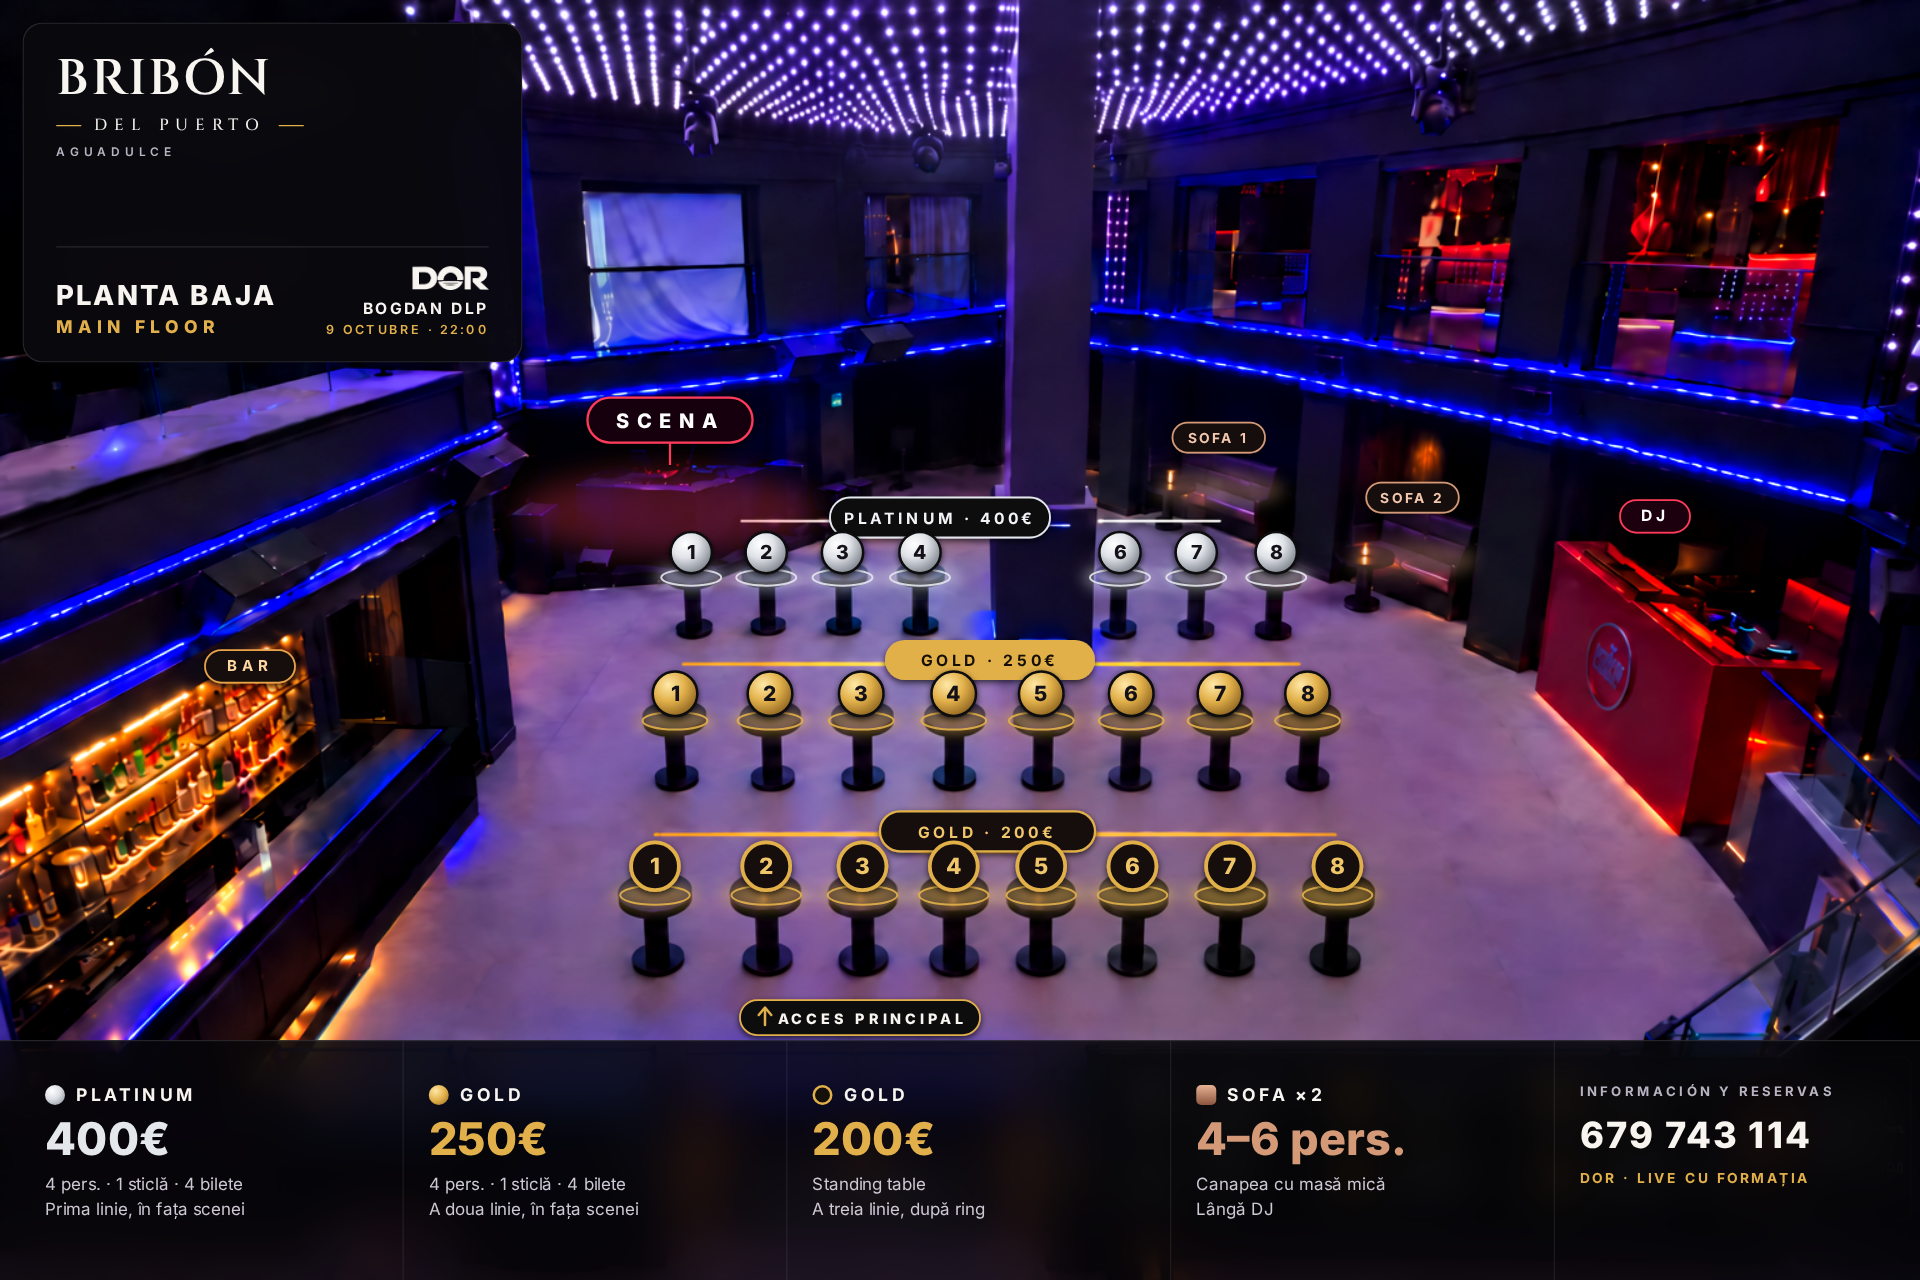
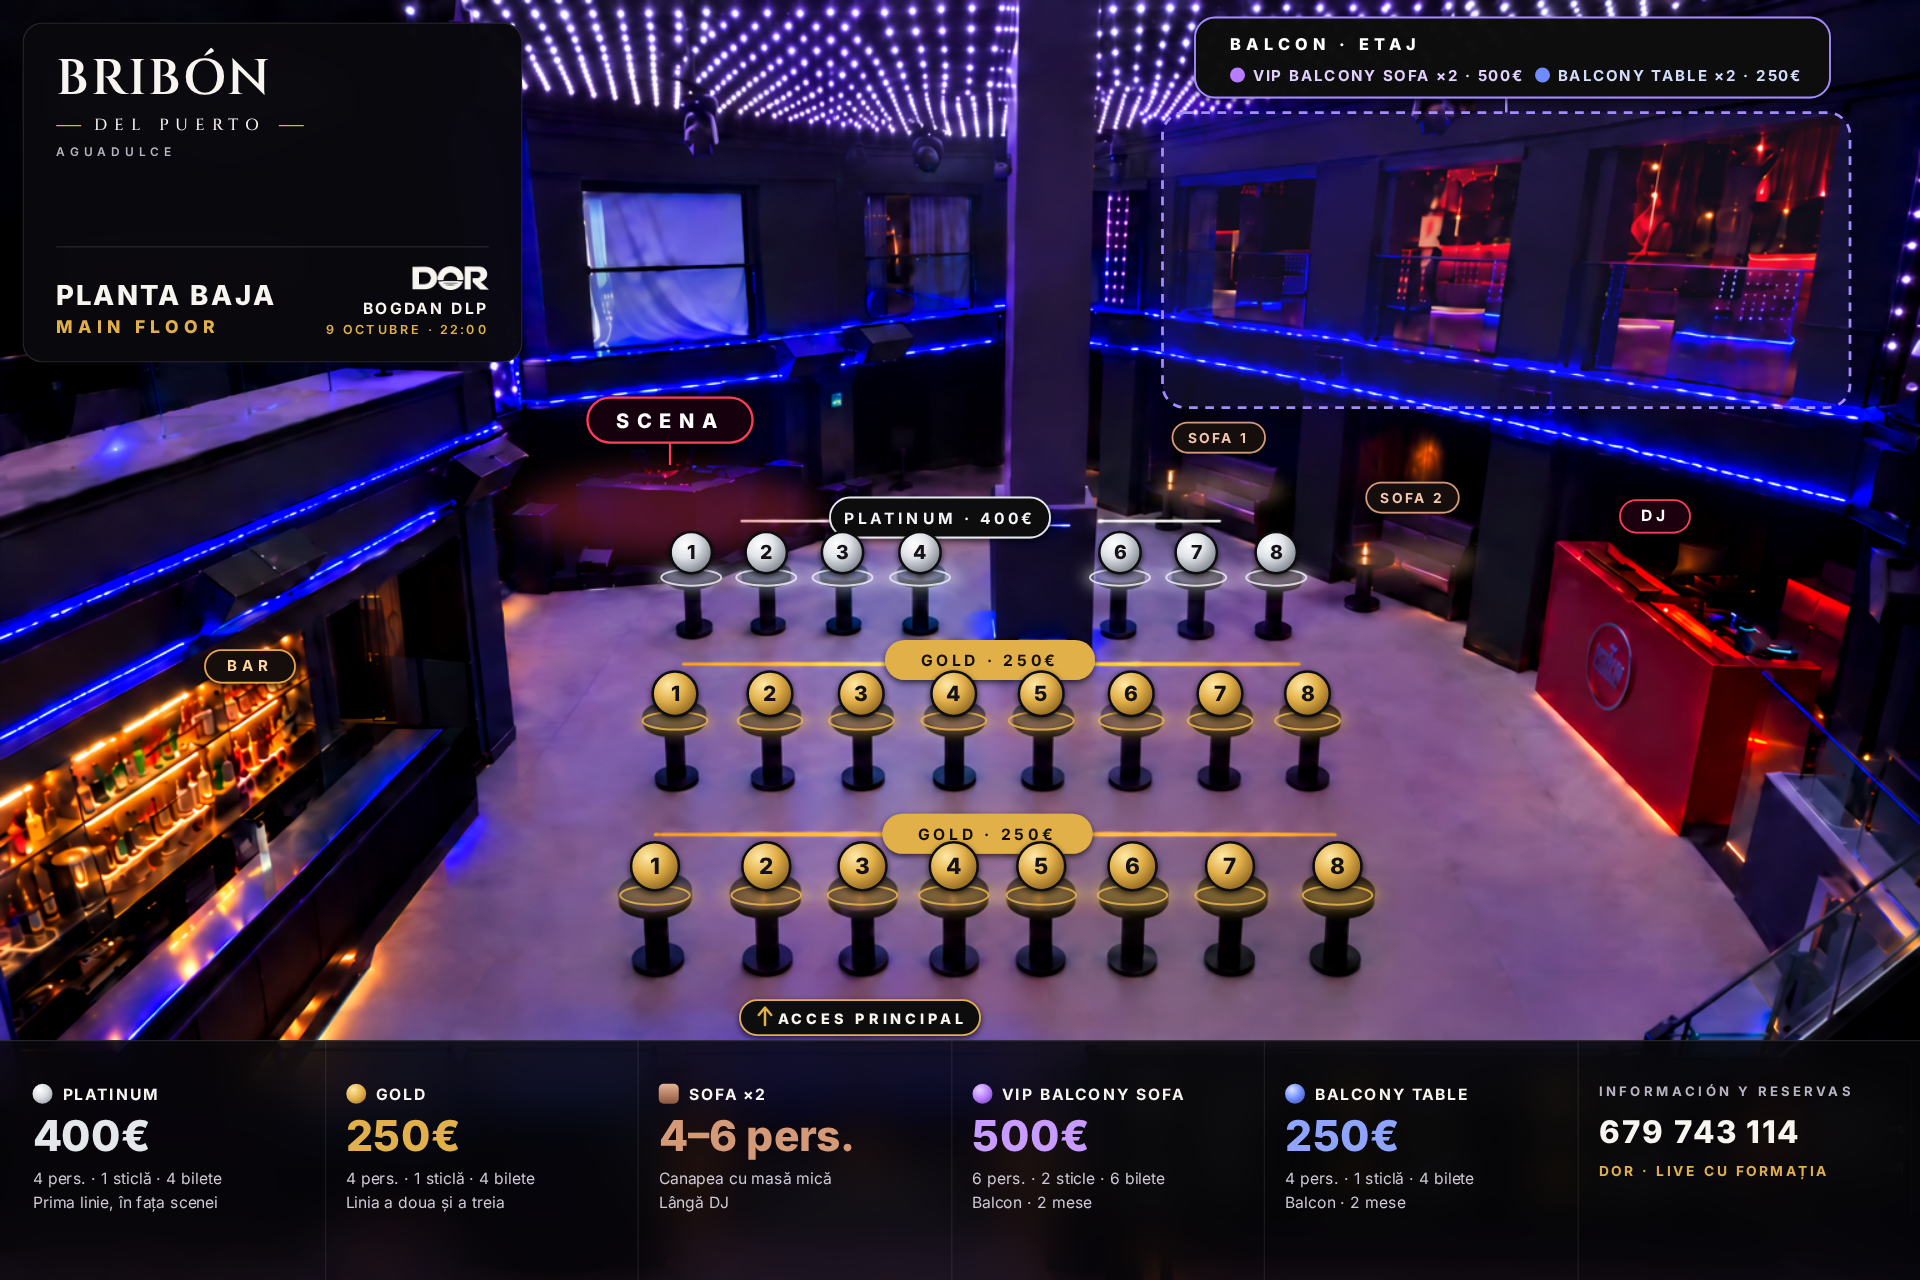
Toate mesele Gold la 250€; balconul marcat pe foto (VIP Balcony Sofa ×2, Balcony Table ×2)
Claude-Session: https://claude.ai/code/session_01CQvvotQmQH2aqorEYVjyXo

diff --git a/harta_mese/harta_foto.html b/harta_mese/harta_foto.html
@@ -36,20 +36,23 @@
 
   /* bandă legendă în poză (varianta landscape) */
   .lg{left:0;right:0;bottom:0;height:192px;border-radius:0;border-width:1px 0 0;
-    display:grid;grid-template-columns:repeat(4,1fr) .9fr;padding:0 16px;background:rgba(6,6,10,.84)}
-  .lg > div{padding:34px 20px 0;border-right:1px solid rgba(255,255,255,.08)}
+    display:grid;grid-template-columns:repeat(5,1fr) 1.05fr;padding:0 10px;background:rgba(6,6,10,.84)}
+  .lg > div{padding:34px 16px 0;border-right:1px solid rgba(255,255,255,.08)}
   .lg > div:last-child{border-right:0}
-  .lg .k{display:flex;align-items:center;gap:9px;font-weight:700;font-size:14px;letter-spacing:.2em}
+  .lg .k{display:flex;align-items:center;gap:8px;font-weight:700;font-size:12.5px;letter-spacing:.12em;white-space:nowrap}
   .lg .sw{width:16px;height:16px;border-radius:50%;flex:none}
-  .lg .p{font-weight:800;font-size:36px;margin-top:9px;line-height:1}
-  .lg .s{font-size:13.5px;color:#cdc8d4;margin-top:8px;line-height:1.5}
+  .lg .p{font-weight:800;font-size:34px;margin-top:9px;line-height:1}
+  .lg .s{font-size:12.5px;color:#cdc8d4;margin-top:8px;line-height:1.5}
   .lg .rz{display:flex;flex-direction:column;justify-content:flex-start}
   .lg .rz span{font-size:10.5px;letter-spacing:.26em;color:var(--mute);font-weight:700}
-  .lg .rz b{font-size:29px;font-weight:800;letter-spacing:.06em;margin-top:10px}
+  .lg .rz b{font-size:25px;font-weight:800;letter-spacing:.06em;margin-top:10px}
   .lg .rz i{font-style:normal;font-size:11px;letter-spacing:.2em;color:var(--gold);margin-top:10px;font-weight:700}
   .sw.plat{background:radial-gradient(circle at 35% 30%,#fff,#d9dce2 45%,#80858f)}
   .sw.gold{background:radial-gradient(circle at 35% 30%,#ffe7a6,#e2b04a 50%,#8e6420)}
   .sw.bronze{background:radial-gradient(circle at 35% 30%,#f3c297,#c9803f 50%,#6d3d16)}
+  .sw.vip{background:radial-gradient(circle at 35% 30%,#e6d2ff,#b77cff 50%,#5e3596)}
+  .sw.bal{background:radial-gradient(circle at 35% 30%,#d7e0ff,#6f8cff 50%,#2e3f99)}
+  .c-vip{color:#c79bff} .c-bal{color:#8ea4ff}
   .sw.gold2{background:#15110a;border:2.5px solid #e2b04a}
   .sw.sofa{border-radius:4px;background:linear-gradient(180deg,#e7b394,#8a553d)}
   .c-plat{color:var(--plat)} .c-gold{color:var(--gold)} .c-bronze{color:var(--bronze)} .c-sofa{color:var(--sofa)}
@@ -79,7 +82,10 @@
   .pt div{font-weight:600;font-size:12px;letter-spacing:.3em;color:var(--mute);text-align:right;line-height:1.7}
   .pt div b{color:var(--ink)}
   .frame{position:relative;width:1080px;height:626px;overflow:hidden}
-  .pl{display:grid;grid-template-columns:repeat(4,1fr);gap:10px;margin:24px 48px 0}
+  .pl{display:grid;grid-template-columns:repeat(3,1fr);gap:10px;margin:22px 48px 0}
+  .pl .pz{display:flex;flex-direction:column;justify-content:center;border-color:rgba(226,176,74,.4)}
+  .pl .pz span{font-size:10.5px;letter-spacing:.24em;color:var(--mute);font-weight:700}
+  .pl .pz b{font-size:27px;font-weight:800;letter-spacing:.06em;margin-top:10px}
   .story .pl{grid-template-columns:repeat(2,1fr);gap:12px}
   .pl > div{border:1px solid #2a2833;border-radius:14px;padding:15px 15px 14px;background:linear-gradient(180deg,rgba(255,255,255,.04),rgba(255,255,255,.01))}
   .pl .k{display:flex;align-items:center;gap:9px;font-weight:700;font-size:12.5px;letter-spacing:.18em}
@@ -89,9 +95,9 @@
   .pf{margin:20px 48px 0;display:flex;justify-content:space-between;align-items:center;font-size:12px;letter-spacing:.2em;color:var(--mute);font-weight:600}
   .pf b{color:var(--ink);font-size:20px;letter-spacing:.1em;font-weight:800;margin-left:12px}
 
-  .story .frame{height:758px}
-  .story #vstage{transform:translateX(-95px) scale(.86) !important}
-  .vert.story .vp{left:18px;width:420px;padding-left:120px}
+  .story .frame{height:652px}
+  .story #vstage{transform:translateX(-40px) scale(.74) !important}
+  .vert.story .vp{left:18px;width:360px;padding-left:60px}
   .story .pl .p{font-size:38px} .story .pl .s{font-size:15px} .story .pl .k{font-size:15px}
   .story .pl > div{padding:22px 22px 20px}
   .vp,.vb{display:none}
@@ -100,8 +106,8 @@
     background:linear-gradient(180deg,rgba(7,7,11,.0),#07070b 8%)}
   .vp h2{font-weight:800;font-size:30px;letter-spacing:.06em;line-height:1.1}
   .vp h2 span{display:block;color:var(--gold);font-size:17px;letter-spacing:.3em;margin-top:6px}
-  .vp ul{list-style:none;margin-top:22px;padding-top:18px;border-top:1px solid rgba(255,255,255,.14);display:grid;gap:11px}
-  .vp li{display:flex;align-items:center;gap:12px;font-weight:700;font-size:17px;letter-spacing:.14em}
+  .vp ul{list-style:none;margin-top:16px;padding-top:14px;border-top:1px solid rgba(255,255,255,.14);display:grid;gap:8px}
+  .vp li{display:flex;align-items:center;gap:12px;font-weight:700;font-size:15px;letter-spacing:.14em}
   .vp .sw{width:18px;height:18px;border-radius:50%}
   .vert .page{justify-content:center}
   .vert .pl .p{font-size:33px} .vert .pl .s{font-size:13.5px} .vert .pl .k{font-size:13.5px}
@@ -128,6 +134,19 @@
     </defs>
 
 
+
+    <!-- BALCON (etaj, dreapta sus): VIP Balcony Sofa ×2 + Balcony Standing Table ×2 -->
+    <g>
+      <rect x="930" y="90" width="550" height="236" rx="18" fill="#8f7bff" opacity=".10"/>
+      <rect x="930" y="90" width="550" height="236" rx="18" fill="none" stroke="#a48cff" stroke-width="2.2" stroke-dasharray="7 6"/>
+      <line x1="1205" y1="78" x2="1205" y2="90" stroke="#a48cff" stroke-width="2"/>
+      <rect x="956" y="14" width="508" height="64" rx="16" fill="#0a0912" fill-opacity=".96" stroke="#a48cff" stroke-width="1.5" filter="url(#shadow)"/>
+      <text x="984" y="40" fill="#fff" font-weight="800" font-size="13" letter-spacing="4">BALCON · ETAJ</text>
+      <circle cx="990" cy="60" r="6" fill="#b77cff"/>
+      <text x="1002" y="64.5" fill="#e3d0ff" font-weight="700" font-size="12" letter-spacing="1.5">VIP BALCONY SOFA ×2 · 500€</text>
+      <circle cx="1234" cy="60" r="6" fill="#6f8cff"/>
+      <text x="1246" y="64.5" fill="#d3dcff" font-weight="700" font-size="12" letter-spacing="1.5">BALCONY TABLE ×2 · 250€</text>
+    </g>
     <!-- SCENA: platforma cu echipament din spate-stânga -->
     <g>
       <ellipse cx="535" cy="410" rx="120" ry="34" fill="#ff3b5c" opacity=".30" filter="url(#blur12)"/>
@@ -147,8 +166,8 @@
       <text x="792" y="533" fill="#150f04">GOLD · 250€</text>
 
       <line x1="514" y1="667" x2="1080" y2="667" stroke="url(#lGold)" stroke-width="3"/>
-      <rect x="704" y="649" width="172" height="32" rx="16" fill="#15110a" stroke="#e2b04a" stroke-width="1.8" filter="url(#shadow)"/>
-      <text x="790" y="670" fill="#f0c66a">GOLD · 200€</text>
+      <rect x="706" y="651" width="168" height="32" rx="16" fill="#e2b04a" filter="url(#shadow)"/>
+      <text x="790" y="672" fill="#150f04">GOLD · 250€</text>
     </g>
 
     <g id="marks" font-weight="800" text-anchor="middle"></g>
@@ -193,11 +212,13 @@
     <div><div class="k"><span class="sw plat"></span>PLATINUM</div><div class="p c-plat">400€</div>
       <div class="s">4 pers. · 1 sticlă · 4 bilete<br>Prima linie, în fața scenei</div></div>
     <div><div class="k"><span class="sw gold"></span>GOLD</div><div class="p c-gold">250€</div>
-      <div class="s">4 pers. · 1 sticlă · 4 bilete<br>A doua linie, în fața scenei</div></div>
-    <div><div class="k"><span class="sw gold2"></span>GOLD</div><div class="p c-gold">200€</div>
-      <div class="s">Standing table<br>A treia linie, după ring</div></div>
+      <div class="s">4 pers. · 1 sticlă · 4 bilete<br>Linia a doua și a treia</div></div>
     <div><div class="k"><span class="sw sofa"></span>SOFA ×2</div><div class="p c-sofa">4–6 pers.</div>
       <div class="s">Canapea cu masă mică<br>Lângă DJ</div></div>
+    <div><div class="k"><span class="sw vip"></span>VIP BALCONY SOFA</div><div class="p c-vip">500€</div>
+      <div class="s">6 pers. · 2 sticle · 6 bilete<br>Balcon · 2 mese</div></div>
+    <div><div class="k"><span class="sw bal"></span>BALCONY TABLE</div><div class="p c-bal">250€</div>
+      <div class="s">4 pers. · 1 sticlă · 4 bilete<br>Balcon · 2 mese</div></div>
     <div class="rz"><span>INFORMACIÓN Y RESERVAS</span><b>679 743 114</b><i>DOR · LIVE CU FORMAȚIA</i></div>
   </div>
 </div>
@@ -212,20 +233,23 @@
   <div class="frame"><div class="stage" id="vstage" style="transform:scale(.703125)">
     <div class="vb"></div>
     <div class="glass vp"><h2>PLANTA BAJA<span>MAIN FLOOR</span></h2>
-      <ul><li><span class="sw plat"></span>PLATINUM</li><li><span class="sw gold"></span>GOLD 250€</li>
-          <li><span class="sw gold2"></span>GOLD 200€</li><li><span class="sw sofa"></span>SOFA</li></ul></div>
+      <ul><li><span class="sw plat"></span>PLATINUM</li><li><span class="sw gold"></span>GOLD</li>
+          <li><span class="sw sofa"></span>SOFA</li><li><span class="sw vip"></span>VIP BALCONY</li><li><span class="sw bal"></span>BALCONY</li></ul></div>
   </div></div>
   <div class="pl">
     <div><div class="k"><span class="sw plat"></span>PLATINUM</div><div class="p c-plat">400€</div>
       <div class="s">4 pers. · 1 sticlă · 4 bilete<br>Prima linie, în fața scenei</div></div>
     <div><div class="k"><span class="sw gold"></span>GOLD</div><div class="p c-gold">250€</div>
-      <div class="s">4 pers. · 1 sticlă · 4 bilete<br>A doua linie, în fața scenei</div></div>
-    <div><div class="k"><span class="sw gold2"></span>GOLD</div><div class="p c-gold">200€</div>
-      <div class="s">Standing table<br>A treia linie, după ring</div></div>
+      <div class="s">4 pers. · 1 sticlă · 4 bilete<br>Linia a doua și a treia</div></div>
     <div><div class="k"><span class="sw sofa"></span>SOFA ×2</div><div class="p c-sofa">4–6 pers.</div>
       <div class="s">Canapea cu masă mică<br>Lângă DJ</div></div>
+    <div><div class="k"><span class="sw vip"></span>VIP BALCONY SOFA</div><div class="p c-vip">500€</div>
+      <div class="s">6 pers. · 2 sticle · 6 bilete<br>Balcon · 2 mese</div></div>
+    <div><div class="k"><span class="sw bal"></span>BALCONY TABLE</div><div class="p c-bal">250€</div>
+      <div class="s">4 pers. · 1 sticlă · 4 bilete<br>Balcon · 2 mese</div></div>
+    <div class="pz"><span>INFORMACIÓN Y RESERVAS</span><b>679 743 114</b></div>
   </div>
-  <div class="pf"><span>INFORMACIÓN Y RESERVAS<b>679 743 114</b></span><span>DOR · LIVE CU FORMAȚIA</span></div>
+  <div class="pf"><span>DOR · LIVE CU FORMAȚIA</span><span>BOGDAN DLP · 9 OCTUBRE</span></div>
 </div>
 
 <script>
@@ -238,7 +262,7 @@
   const rows = [
     { kind: 'plat',  y: 442, xs: [553, 613, 674, 736, null, 896, 957, 1021] },
     { kind: 'gold',  y: 555, xs: [540, 616, 689, 763, 833, 905, 976, 1046] },
-    { kind: 'gold2', y: 693, xs: [524, 613, 690, 763, 833, 906, 984, 1070] },
+    { kind: 'gold',  y: 693, xs: [524, 613, 690, 763, 833, 906, 984, 1070] },
   ];
   const NS = 'http://www.w3.org/2000/svg';
   const el = (n, a) => { const e = document.createElementNS(NS, n); for (const k in a) e.setAttribute(k, a[k]); return e; };

diff --git a/harta_mese/harta.html b/harta_mese/harta.html
@@ -45,7 +45,7 @@
   .plan{flex:1;display:flex;align-items:center;justify-content:center;min-height:0}
   .plan svg{width:100%;height:auto;display:block}
 
-  .legend{display:grid;grid-template-columns:repeat(4,1fr);gap:12px}
+  .legend{display:grid;grid-template-columns:repeat(3,1fr);gap:12px}
   .card{border:1px solid var(--line);border-radius:14px;padding:16px 16px 15px;background:linear-gradient(180deg,rgba(255,255,255,.035),rgba(255,255,255,.01))}
   .card .k{display:flex;align-items:center;gap:10px}
   .card .sw{width:22px;height:22px;border-radius:50%;flex:none}
@@ -65,7 +65,7 @@
   footer b{color:var(--ink);font-size:20px;letter-spacing:.1em;font-weight:800;margin-left:12px}
 
   .story .title{margin-top:56px}
-  .story .legend{grid-template-columns:repeat(2,1fr);gap:14px}
+  .story .legend{grid-template-columns:1fr;gap:14px}
   .story .card{padding:20px 20px 18px}
   .story footer{margin-top:28px}
 
@@ -101,7 +101,7 @@
   .pk .price{font-weight:800;font-size:46px;margin-top:12px}
   .pk .row{display:flex;gap:8px;margin-top:16px;flex-wrap:wrap}
   .pk .row span{font-size:13px;font-weight:700;letter-spacing:.06em;padding:7px 12px;border-radius:99px;border:1px solid}
-  .pk .d{font-size:14.5px;color:#c9c5cf;margin-top:14px;line-height:1.5}
+  .pk .d{font-size:14.5px;color:#c9c5cf;margin-top:14px;line-height:1.5} .pk .d b{color:#fff}
   .pk.vip{border-color:rgba(183,124,255,.5);background:radial-gradient(420px 220px at 100% 0%,rgba(183,124,255,.16),transparent 70%),#0d0b12}
   .pk.vip .tag,.pk.vip .price{color:var(--vip-sofa)} .pk.vip .row span{border-color:rgba(183,124,255,.45);color:#e3d0ff}
   .pk.bal{border-color:rgba(111,140,255,.5);background:radial-gradient(420px 220px at 100% 0%,rgba(111,140,255,.16),transparent 70%),#0b0c13}
@@ -253,8 +253,8 @@
 
     <line x1="250" y1="552" x2="470" y2="552" stroke="#d8a843" stroke-width="1" opacity=".35"/>
     <line x1="650" y1="552" x2="870" y2="552" stroke="#d8a843" stroke-width="1" opacity=".35"/>
-    <rect x="474" y="538" width="172" height="28" rx="14" fill="#0b0b10" stroke="#d8a843" stroke-width="1.4"/>
-    <text x="560" y="557" fill="#e9c270">GOLD · 200€</text>
+    <rect x="474" y="538" width="172" height="28" rx="14" fill="#d8a843"/>
+    <text x="560" y="557" fill="#140f05">GOLD · 250€</text>
   </g>
 
   <g id="tables" font-weight="800" font-size="17" text-anchor="middle"></g>
@@ -265,8 +265,7 @@
     <div class="card plat"><div class="k"><div class="sw plat"></div><div class="cat">PLATINUM</div></div>
       <div class="p">400€</div><div class="s">4 pers. · 1 sticlă · 4 bilete<br>Prima linie, în fața scenei<br><b>7 mese</b></div></div>
     <div class="card g1"><div class="k"><div class="sw g1"></div><div class="cat">GOLD</div></div>
-      <div class="p">250€</div><div class="s">4 pers. · 1 sticlă · 4 bilete<br>A doua linie, în fața scenei<br><b>8 mese</b></div></div>
-    <div class="card g2"><div class="k"><div class="sw g2"></div><div class="cat">GOLD</div></div>
+      <div class="p">250€</div><div class="s">4 pers. · 1 sticlă · 4 bilete<br>Linia a doua și a treia<br><b>16 mese</b></div></div>
       <div class="p">200€</div><div class="s">Standing table<br>A treia linie<br><b>8 mese</b></div></div>
     <div class="card sofa"><div class="k"><div class="sw sofa"></div><div class="cat">SOFA ×2</div></div>
       <div class="p">4–6 pers.</div><div class="s">Canapea pe podium<br>cu masă mică<br><b>2 canapele</b></div></div>
@@ -298,14 +297,14 @@
         <h3>VIP BALCONY SOFA</h3>
         <div class="price">500€</div>
         <div class="row"><span>6 PERS.</span><span>2 STICLE</span><span>6 BILETE</span></div>
-        <div class="d">Sofa la etaj, cu vedere către scenă</div>
+        <div class="d">Sofa la balcon, cu vedere către scenă · <b>2 mese</b></div>
       </div>
       <div class="pk bal">
         <div class="tag">BALCON · STANDING</div>
         <h3>BALCONY STANDING TABLE</h3>
         <div class="price">250€</div>
         <div class="row"><span>4 PERS.</span><span>1 STICLĂ</span><span>4 BILETE</span></div>
-        <div class="d">Masă înaltă la balcon, cu vedere către scenă</div>
+        <div class="d">Masă înaltă la balcon, cu vedere către scenă · <b>2 mese</b></div>
       </div>
     </div>
   </div>
@@ -324,7 +323,7 @@
   const rows = [
     { y: 330, kind: 'plat', skip: [4] },          // poziția 5 = stâlpul (schiță: 1–4, 6–8)
     { y: 470, kind: 'g1' },
-    { y: 610, kind: 'g2' },
+    { y: 610, kind: 'g1' },
   ];
   const el = (n, a) => { const e = document.createElementNS(NS, n); for (const k in a) e.setAttribute(k, a[k]); return e; };
   for (const r of rows) for (let i = 0; i < 8; i++) {
